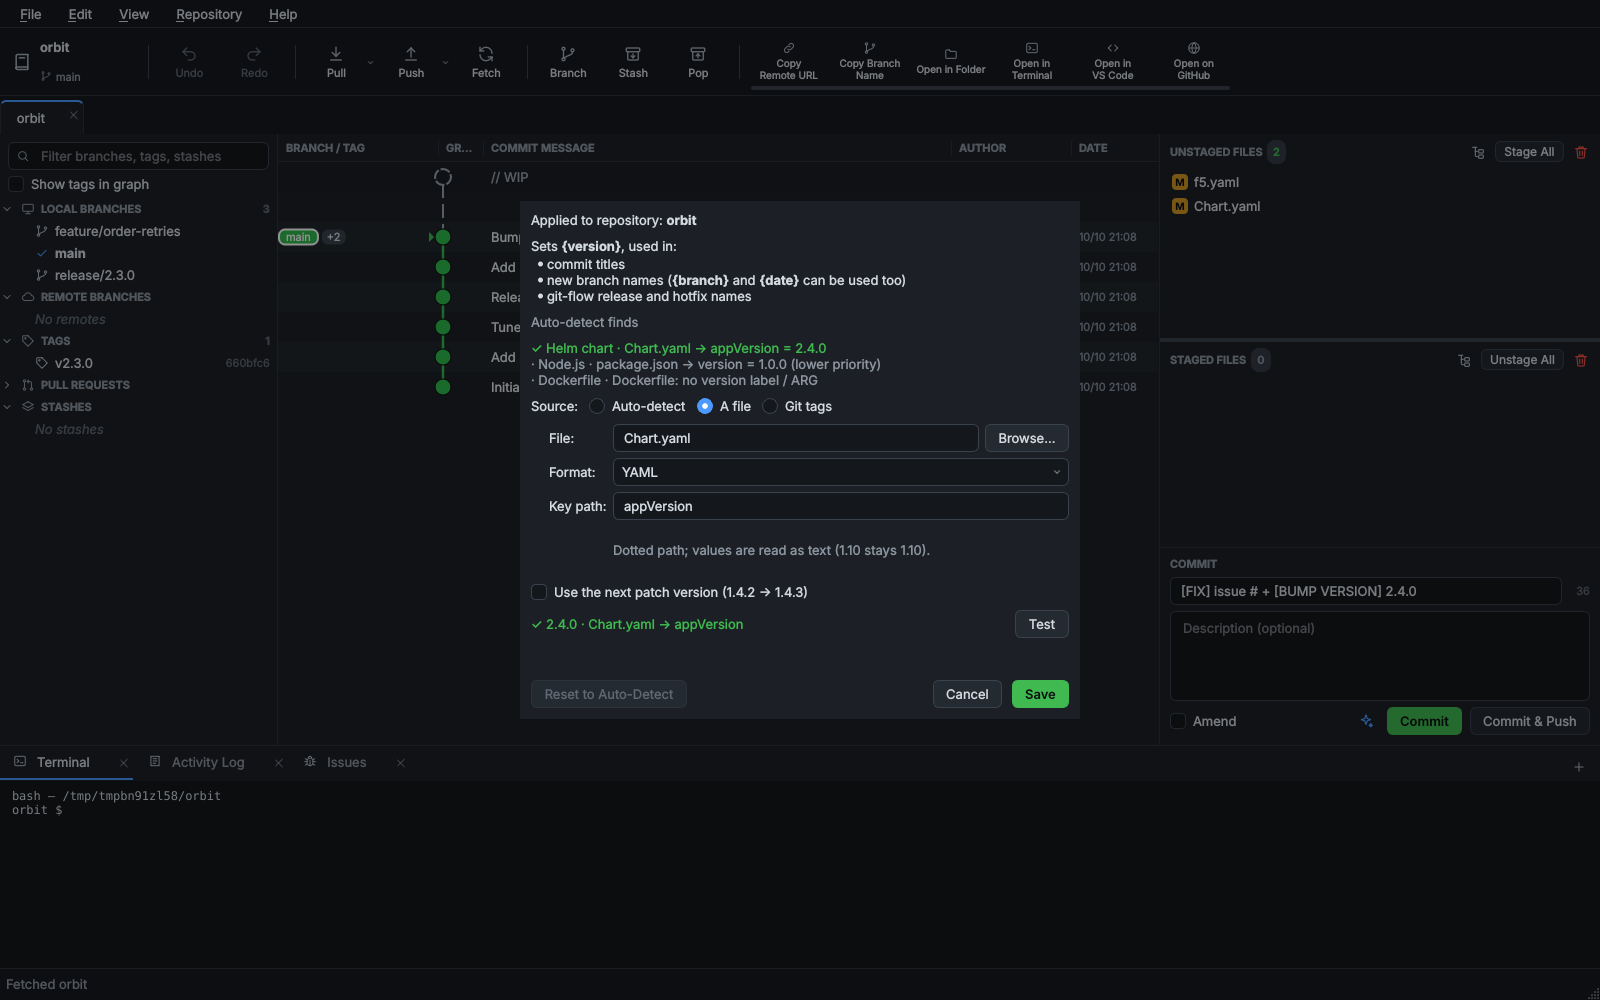
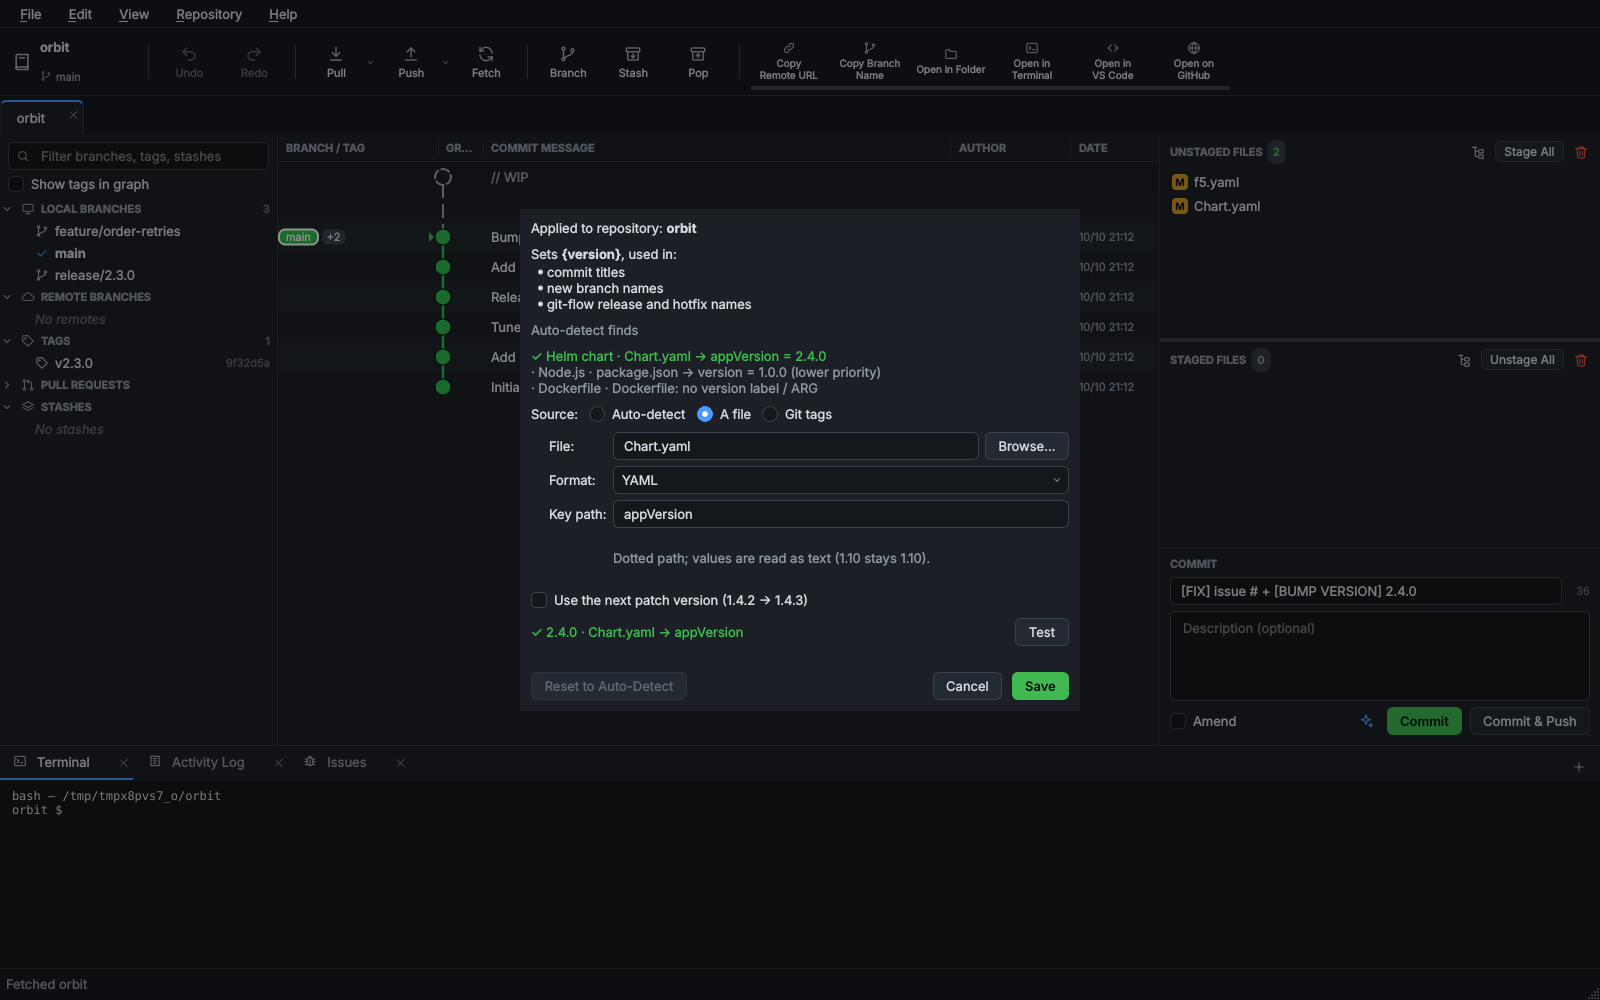
Version guide: branch name pattern without {branch}
Claude-Session: https://claude.ai/code/session_01Q3hVnWnJ9SmFCQg4cVvoaJ

Changed region(s): [[0.3125, 0.217, 0.6562, 0.651], [0.5938, 0.62, 0.6875, 0.713], [0.3438, 0.682, 0.4375, 0.713]]

diff --git a/guides.html b/guides.html
@@ -473,7 +473,7 @@
 <tr><th scope="row">The top of a changelog</th><td>Regex</td><td><code>^## \[(\d[^\]]*)\]</code></td></tr>
 </tbody></table></div>
 <p><strong>Git tags</strong> instead of a file: give a pattern such as <code>api-v*</code> for a monorepo that tags each service. <strong>Use the next patch version</strong> turns the last released version into the one you're preparing.</p>
-<div class="callout callout-tip"><svg viewBox="0 0 24 24" fill="none" stroke="currentColor" stroke-width="2" stroke-linecap="round" stroke-linejoin="round" aria-hidden="true"><path d="M9 18h6M10 22h4"/><path d="M12 2a7 7 0 0 0-4 12.7V17h8v-2.3A7 7 0 0 0 12 2z"/></svg><div>The same version names new branches and git-flow releases. The suggested branch name follows a pattern you set per repository in the Create Branch dialog, under <em>Suggested name</em>: <code>dev-release/{version}</code> by default, or <code>release/{version}</code>, <code>{branch}-{date}</code> and so on. Files are only read, never run, so opening a repository never executes its build scripts.</div></div>
+<div class="callout callout-tip"><svg viewBox="0 0 24 24" fill="none" stroke="currentColor" stroke-width="2" stroke-linecap="round" stroke-linejoin="round" aria-hidden="true"><path d="M9 18h6M10 22h4"/><path d="M12 2a7 7 0 0 0-4 12.7V17h8v-2.3A7 7 0 0 0 12 2z"/></svg><div>The same version names new branches and git-flow releases. The suggested branch name follows a pattern you set per repository in the Create Branch dialog, under <em>Suggested name</em>: <code>dev-release/{version}</code> by default, or <code>release/{version}</code>, or with today's date, <code>release/{version}-{date}</code>. Files are only read, never run, so opening a repository never executes its build scripts.</div></div>
             <div class="chapter-footer"><a href="#several-repos">&larr; Several Repositories at Once</a><span></span></div>
           </article>
         </section>

diff --git a/docs/analysis/features_overview.md b/docs/analysis/features_overview.md
@@ -282,7 +282,7 @@ Clicking a file opens its diff for that commit. A right-click on a commit offers
 - Most clients start every commit from an empty box, or support only one static template.
 - Templates here are a list with live placeholders, which suits teams with commit conventions such as `[FIX]`, `[NEW]` or version bumps.
 - The version comes from your project's own manifest, whatever the language, and the title updates when you bump it.
-- The same version detection suggests branch names like `dev-release/1.4.0` when you create a branch (the pattern is yours to choose per repository: `release/{version}`, `{branch}-{date}`…), and git-flow release names.
+- The same version detection suggests branch names like `dev-release/1.4.0` when you create a branch (the pattern is yours to choose per repository: `release/{version}`, `{version}-{date}`…), and git-flow release names.
 
 **Where to find it:** The *Commit* box in the right panel; edit the list in **Edit → Commit Messages…**; choose the version's source in **Repository → Version Source…**.
 
